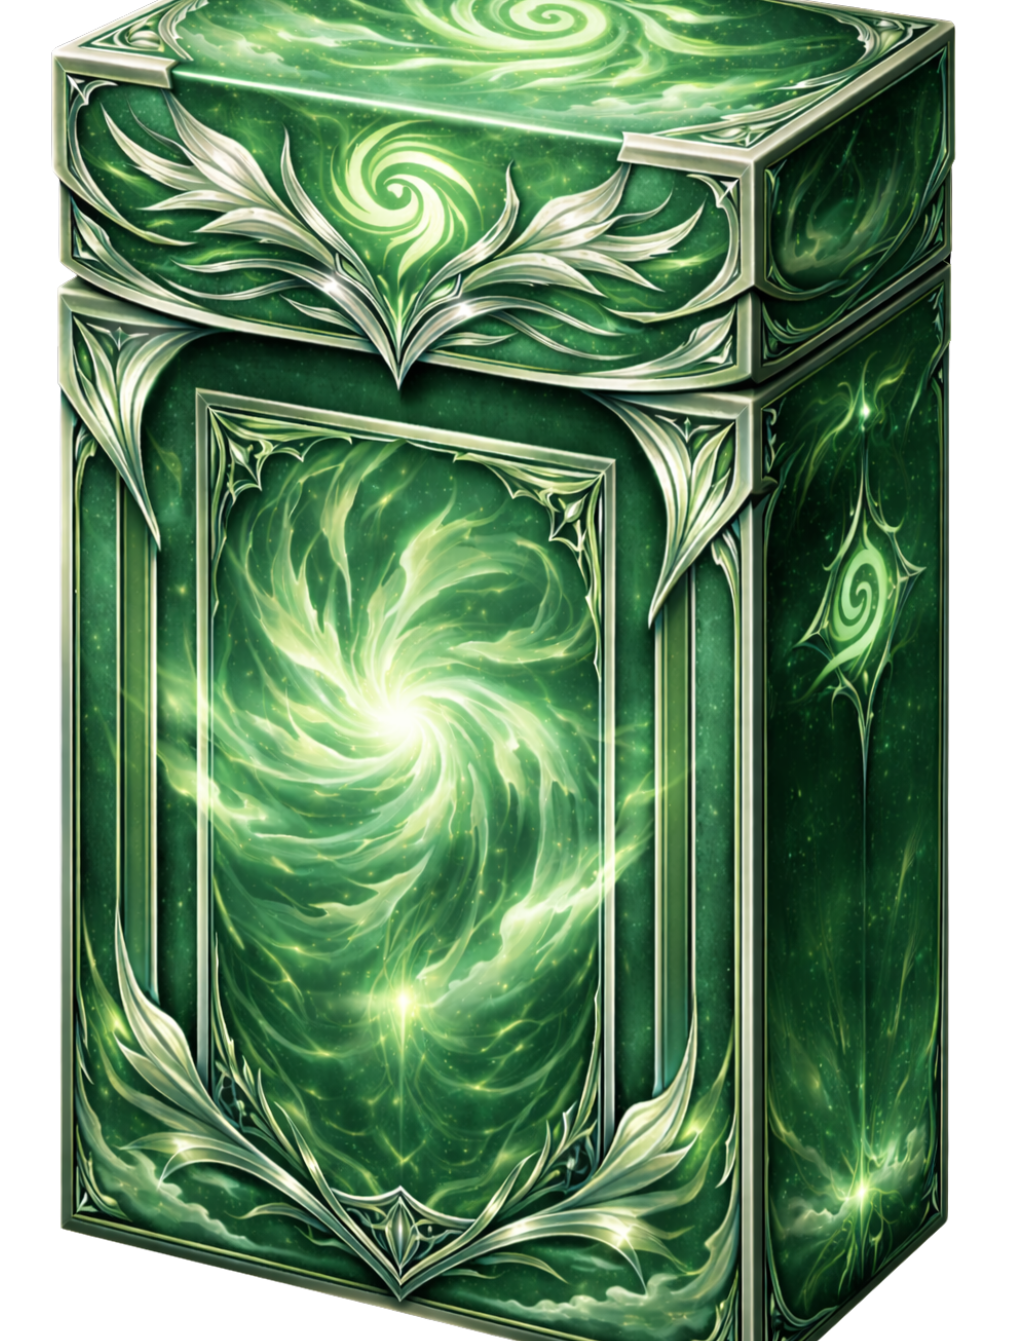
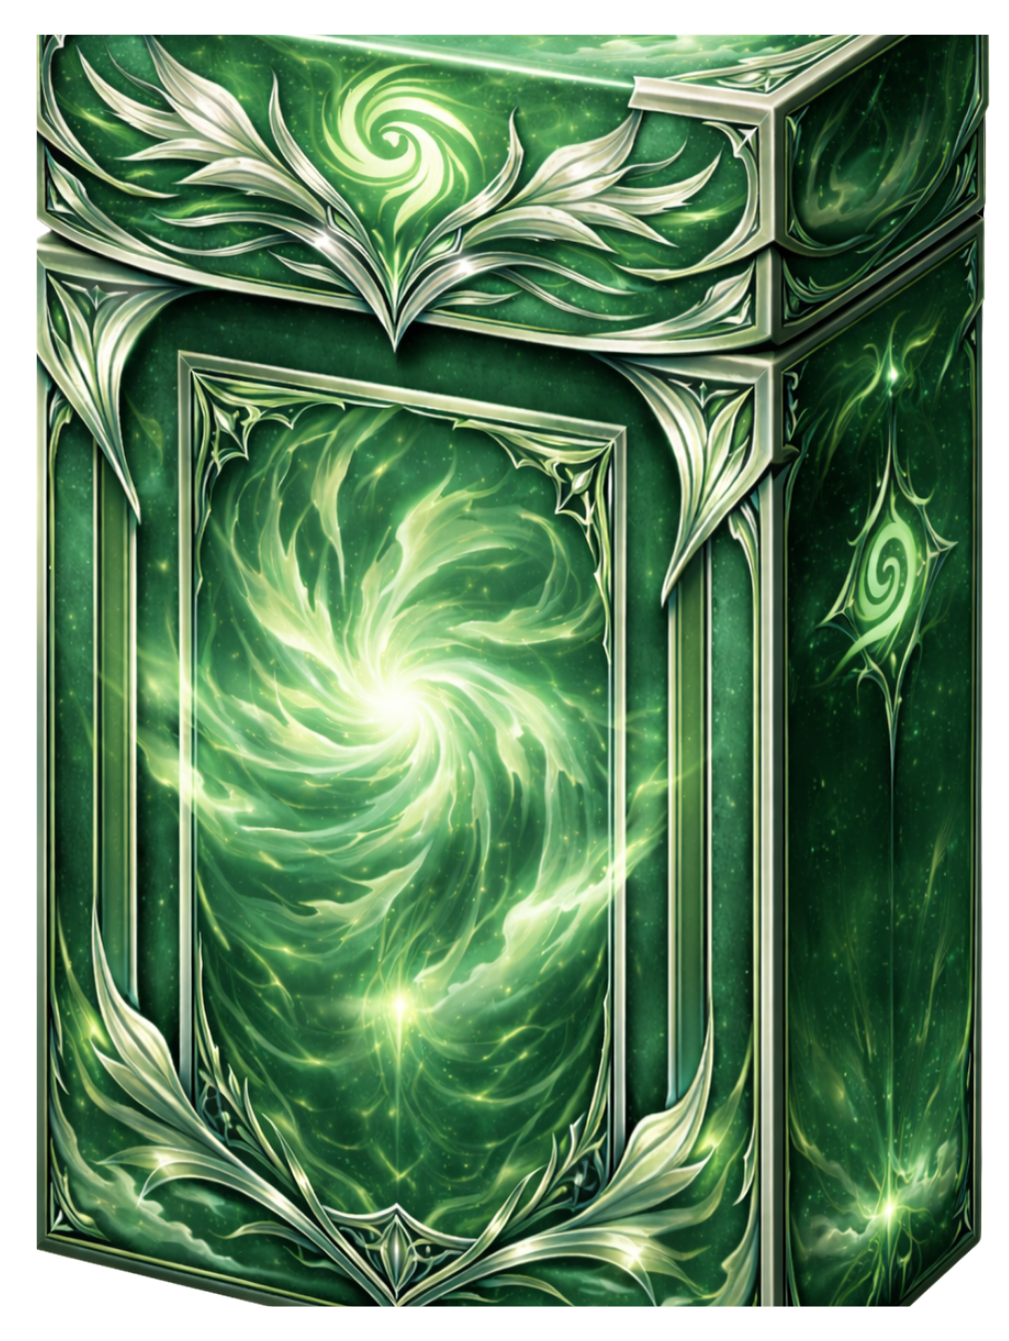
Corrige dimensionamento das deckboxes e atualiza imagens de fundo

diff --git a/style.css b/style.css
@@ -245,8 +245,10 @@ input {
 .deck-select-image {
   width: 100%;
   height: 100%;
-  object-fit: cover;
+  object-fit: contain;
   display: block;
+  padding: 12px;
+  box-sizing: border-box;
 }
 
 .deck-select-image-fallback {